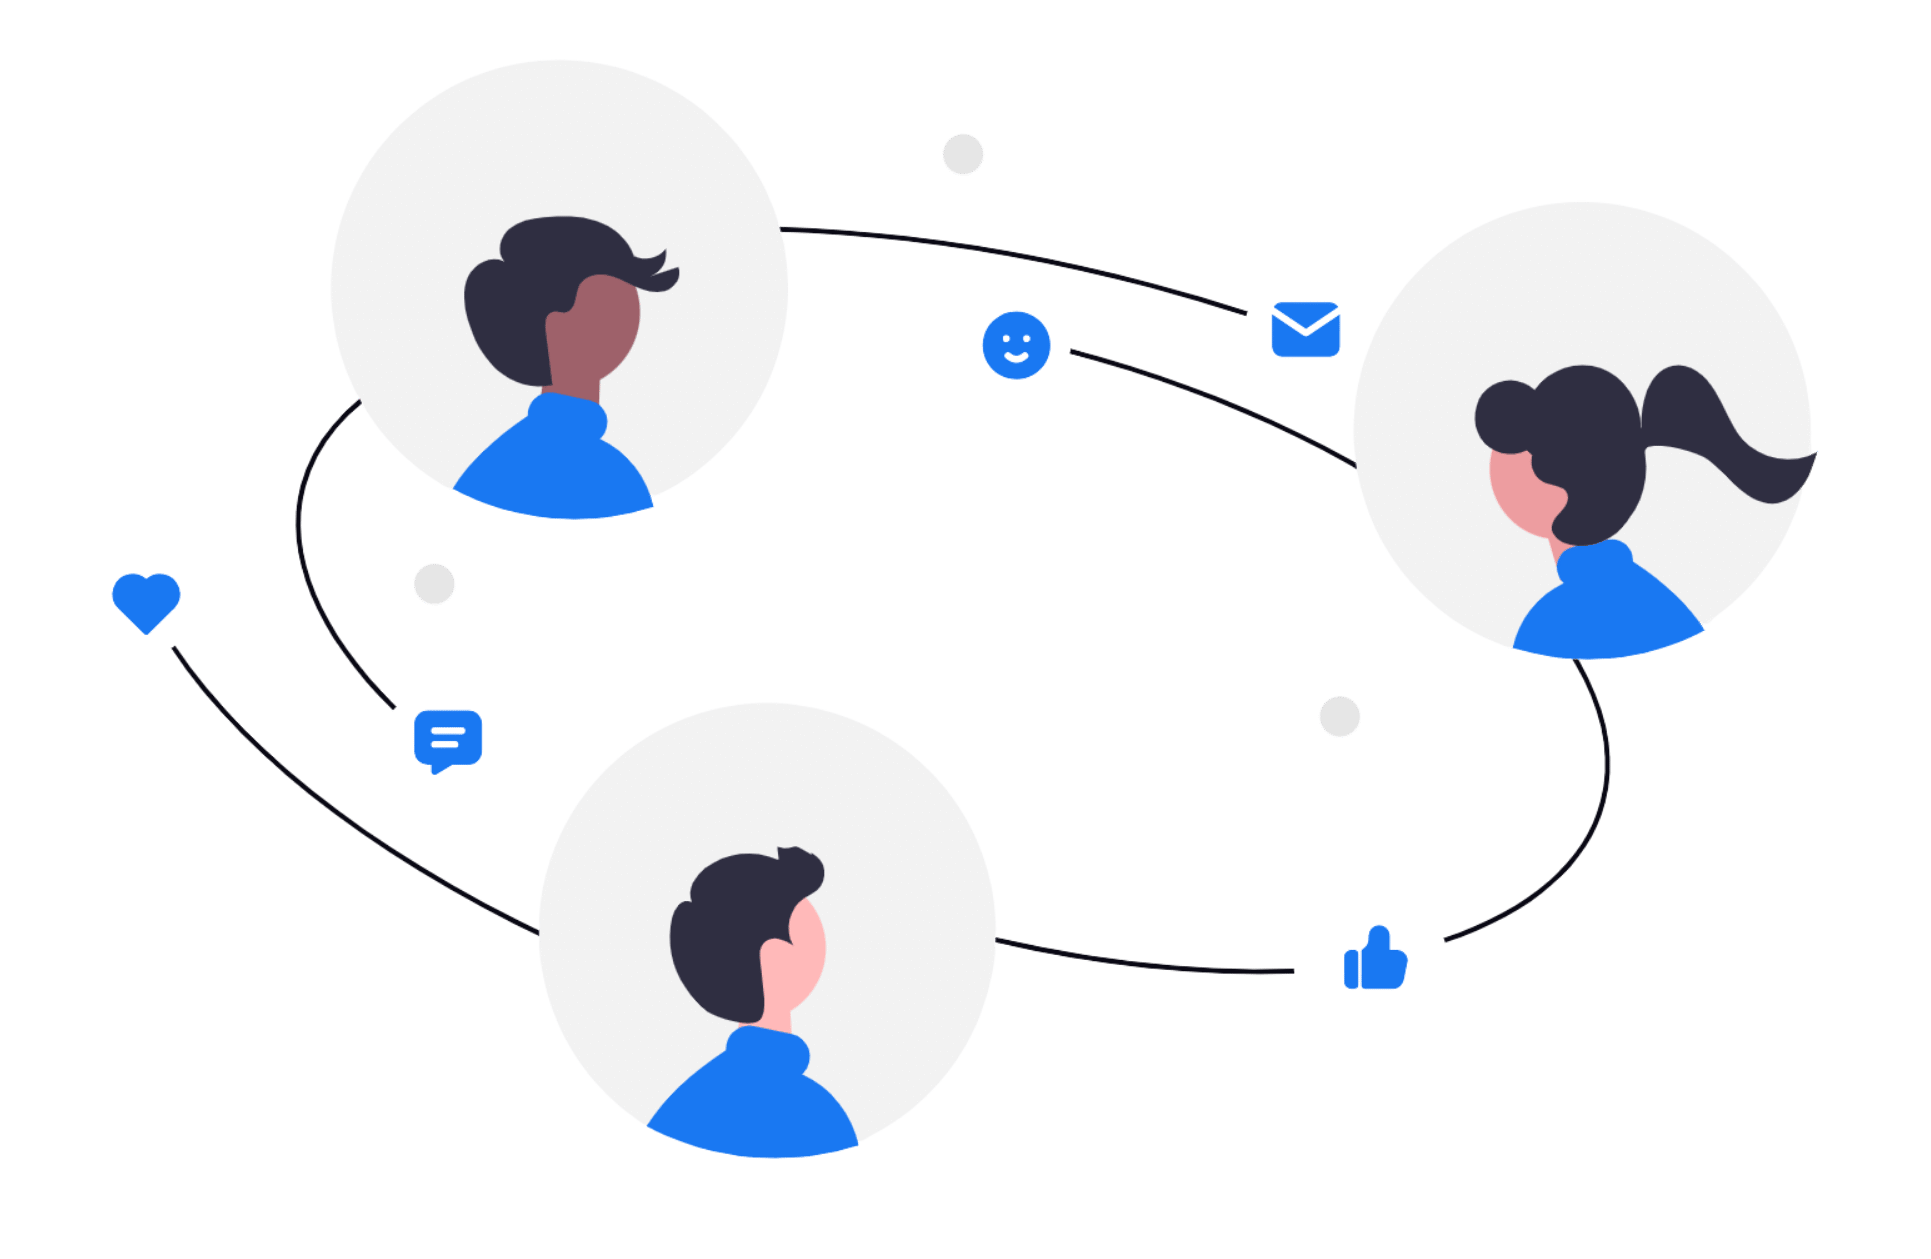
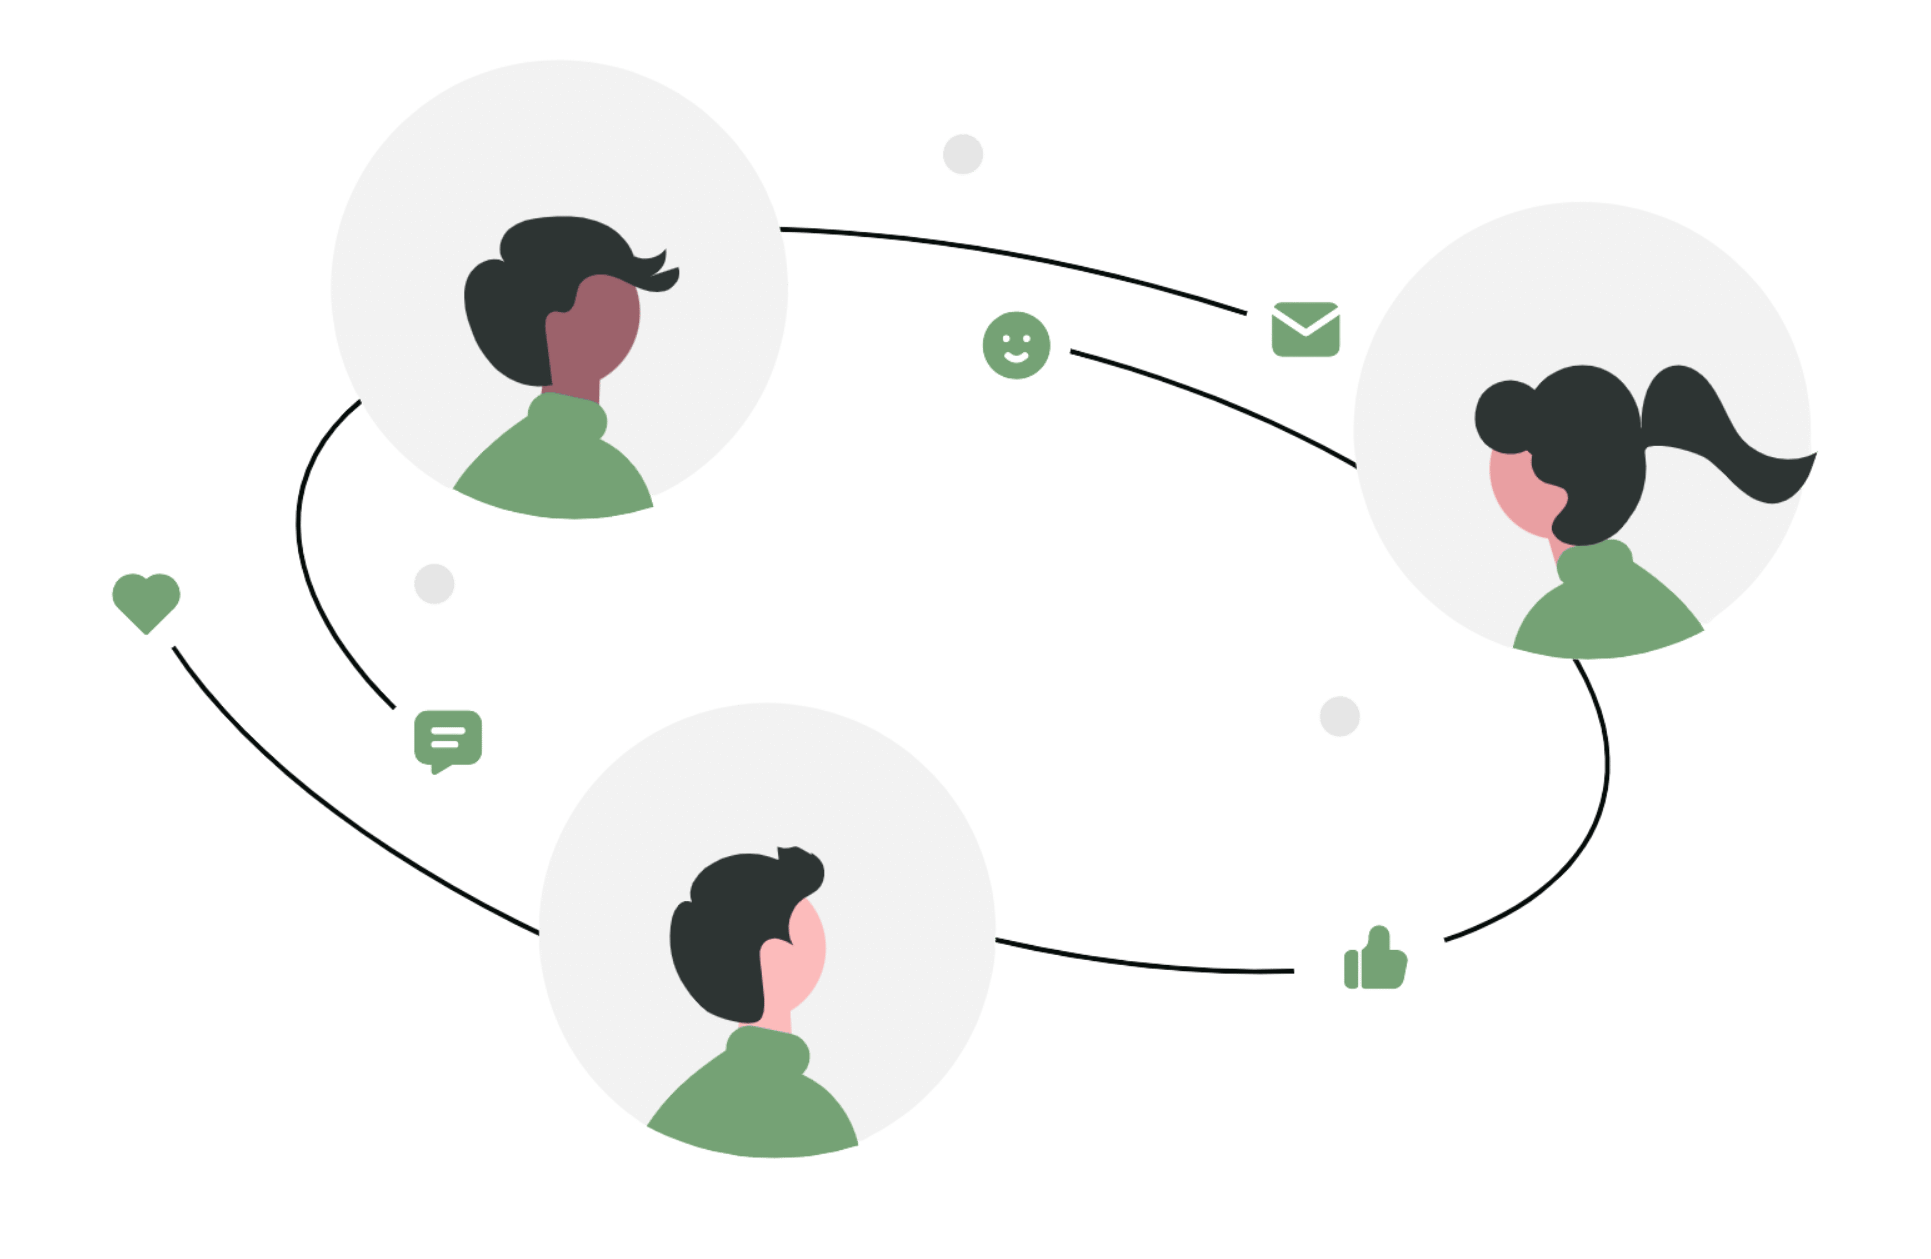
Ubdate color variables.css file

diff --git a/assets/css/variables.css b/assets/css/variables.css
@@ -1,26 +1,27 @@
 :root {
-    /* باليتة الألوان الهادية - Light */
-    --bg-body: #F0F4F8;      /* خلفية الصفحة */
-    --bg-card: #FFFFFF;      /* خلفية البوستات */
-    --primary: #1877F2;      /* أزرق فيسبوك/البحر */
-    --primary-light: #60A5FA; /* أزرق سماوي */
-    --text-main: #102A43;    /* كحلي غامق للنصوص */
-    --text-muted: #486581;   /* رمادي مزرق للنصوص الفرعية */
-    --border: #D9E2EC;       /* فواصل هادئة */
-    --new-action: #10B981; 
-    --new-action-light: rgba(16, 185, 129, 0.671);
+    /* --- باليتة الألوان الهادئة - Light Mode --- */
+    --bg-body: #F8FAF9;      /* خلفية الصفحة (رمادي مخضر فاتح جداً) */
+    --bg-card: #FFFFFF;      /* خلفية الكروت والبوستات */
+    --primary: #8FBC8F;      /* اللون الأساسي (Sage Green) */
+    --primary-hover: #7aa87a; /* درجة أغمق قليلاً عند الوقوف بالماوس */
+    --text-main: #2F4F4F;    /* كحلي مخضر غامق جداً للنصوص الأساسية */
+    --text-muted: #667c7c;   /* درجة هادئة للنصوص الفرعية */
+    --border: #d1dbd4;       /* فواصل هادئة جداً */
+    --new-action: #E8F5E9;   /* خلفية خفيفة للإشعارات أو الحقول النشطة */
     
     /* الخطوط */
     --font-main: 'Cairo', sans-serif;
 }
 
 [data-theme="dark"] {
-    /* باليتة الألوان الهادية - Dark */
-    --bg-body: #0B1D33;      /* كحلي غامق جداً (قاع البحر) */
-    --bg-card: #102A43;      /* كحلي أفتح للبوستات */
-    --primary: #4791FF;      /* أزرق فاتح ينور في الضلمة */
-    --text-main: #F0F4F8;    /* أبيض ثلجي للنصوص */
-    --text-muted: #829AB1;   /* رمادي فاتح */
-    --border: #243B53;       /* فواصل غامقة */
-    --new-action: #10B981;
+    /* --- باليتة الألوان الهادئة - Dark Mode --- */
+    /* هنا هنستخدم درجات الغابة الليلية عشان تليق مع الـ Sage Green */
+    --bg-body: #1a261a;      /* أخضر غامق جداً (قريب من الأسود) مريح للعين */
+    --bg-card: #243424;      /* أخضر أفتح قليلاً للبوستات */
+    --primary: #a3cba3;      /* درجة فاتحة من الـ Sage عشان تنور في الضلمة */
+    --primary-hover: #8FBC8F;
+    --text-main: #f0f5f0;    /* أبيض كريمي مريح (مش فاقع) */
+    --text-muted: #a0b0a0;   /* رمادي مخضر هادئ */
+    --border: #2d402d;       /* فواصل غامقة متناسقة */
+    --new-action: #1e3a2a;   /* أخضر غامق للعمليات الجديدة */
 }

diff --git a/assets/css/login.css b/assets/css/login.css
@@ -36,7 +36,7 @@ input, .but{
     margin: 10px 0;
     border-radius: 5px;
     outline: none;
-    border: var(--text-muted) solid 1px;
+    border: var(--border) solid 1px;
     color: var(--text-main);
     padding-left: 35px;
 }
@@ -53,9 +53,10 @@ input, .but{
     color: var(--bg-card);
     font-size: 20px;
     line-height: 10px;
+    border: none;
 }
 .but:hover{
-    background-color: var(--primary-light);
+    background-color: var(--primary-hover);
 }
 img{
     width: 600px;
@@ -80,13 +81,13 @@ p{
 }
 .link a{
     text-decoration: none;
-    color: var(--bg-card);
-    background-color: var(--new-action);
+    color: var(--text-main);
+    /* background-color: var(--new-action); */
     padding: 0 10px;
     border-radius: 5px;
 }
 .link a:hover{
-    background-color: var(--new-action-light);
+    color: var(--color-hover);
 }
 
 @media(max-width: 600px){
